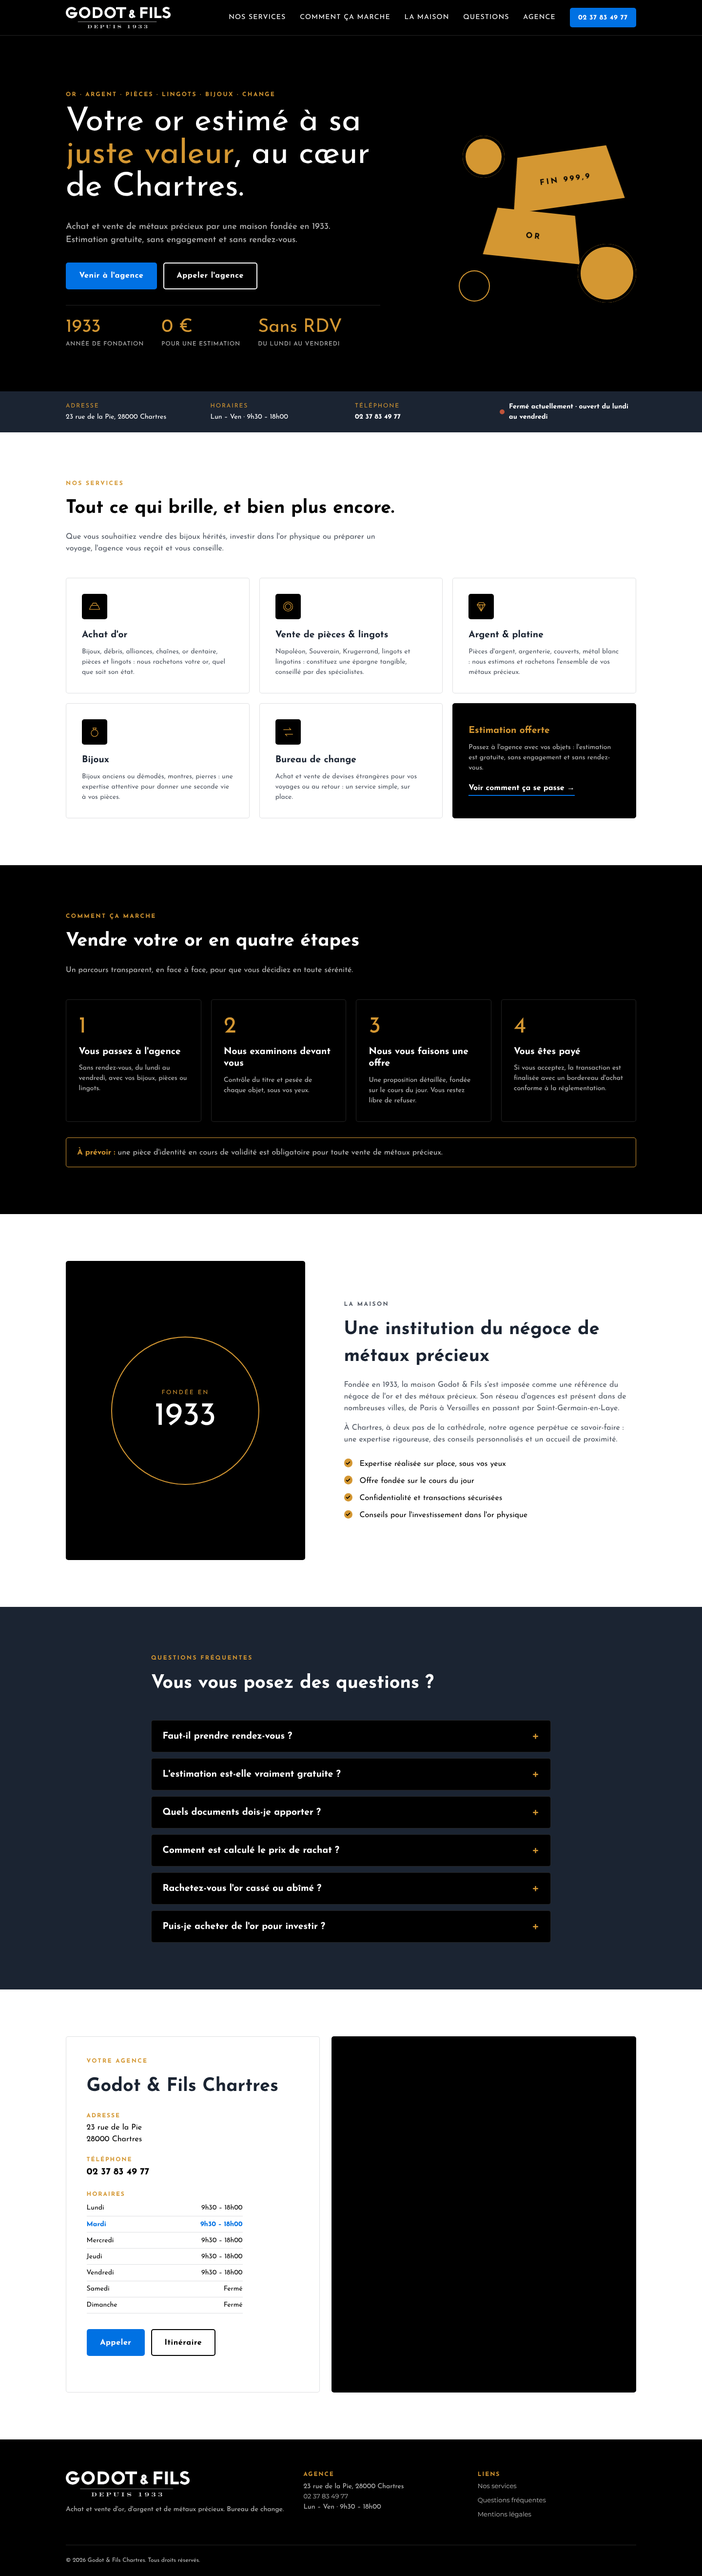
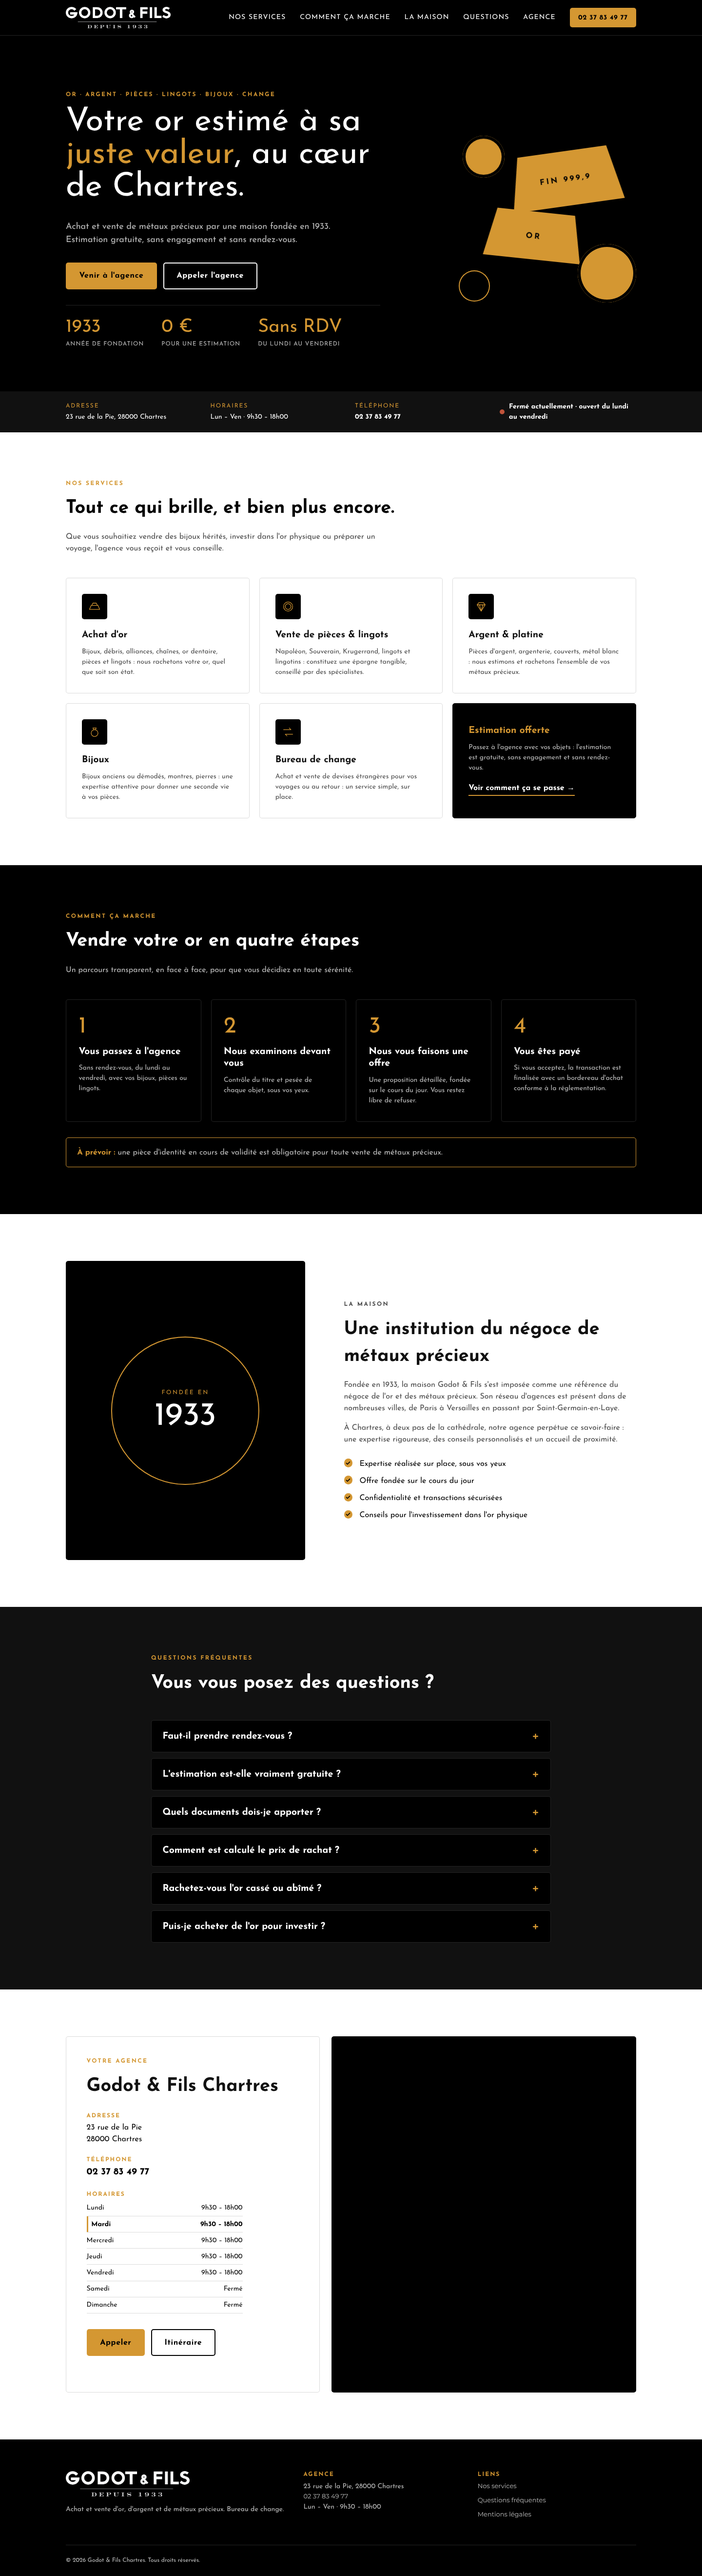
Retire tous les bleus : boutons or, bleu nuit remplacé par noir profond
Claude-Session: https://claude.ai/code/session_014VqmofWoG2EWz9QEFTFwXC

diff --git a/assets/css/style.css b/assets/css/style.css
@@ -1,22 +1,22 @@
 /* Godot & Fils Chartres — refonte 2026
    Design system : voir DESIGN.md
-   Canvas noir · surfaces blanches · or #d49732 · CTA bleu #0071e3 · Josefin Sans · rayon 5px · aplats */
+   Canvas noir · surfaces blanches · or #d49732 · CTA or · Josefin Sans · rayon 5px · aplats */
 :root {
   /* Couleurs */
   --canvas: #000000;
   --surface: #ffffff;
-  --accent: #0071e3;
-  --accent-hover: #0077ed;
+  --accent: #d49732;
+  --accent-hover: #e0a845;
   --text-1: #ffffff;
   --text-2: #000000;
   --gold: #d49732;
-  --navy: #1b2432;
+  --navy: #111111;
 
   /* Dérivés (opacités des tokens, pas de nouvelles teintes) */
   --text-1-muted: rgba(255, 255, 255, .72);
-  --text-2-muted: rgba(27, 36, 50, .78);
+  --text-2-muted: rgba(0, 0, 0, .72);
   --line-dark: rgba(255, 255, 255, .14);
-  --line-light: rgba(27, 36, 50, .14);
+  --line-light: rgba(0, 0, 0, .14);
 
   /* Forme */
   --radius: 5px;
@@ -56,7 +56,7 @@ p { margin: 0 0 1em; }
 .narrow { width: min(820px, 100% - 32px); }
 
 .skip { position: absolute; left: -9999px; }
-.skip:focus { left: 16px; top: 16px; z-index: 100; background: var(--accent); color: var(--text-1); padding: .6em 1em; border-radius: var(--radius); }
+.skip:focus { left: 16px; top: 16px; z-index: 100; background: var(--gold); color: var(--text-2); padding: .6em 1em; border-radius: var(--radius); }
 :focus-visible { outline: 2px solid var(--accent); outline-offset: 3px; }
 
 .eyebrow {
@@ -73,7 +73,7 @@ p { margin: 0 0 1em; }
   transition: background-color .2s, color .2s, border-color .2s;
 }
 .btn-sm { min-height: 40px; padding: .5em 1.1em; font-size: var(--fs-small); }
-.btn-gold, .btn-primary { background: var(--accent); color: var(--text-1); }
+.btn-gold, .btn-primary { background: var(--gold); color: var(--text-2); }
 .btn-gold:hover, .btn-primary:hover { background: var(--accent-hover); }
 .btn-ghost { color: var(--text-1); border-color: var(--text-1); }
 .btn-ghost:hover { background: var(--text-1); color: var(--text-2); }
@@ -179,7 +179,7 @@ p { margin: 0 0 1em; }
 .card-accent { background: var(--canvas); color: var(--text-1); border-color: var(--canvas); display: flex; flex-direction: column; justify-content: center; }
 .card-accent h3 { color: var(--gold); }
 .card-accent p { color: var(--text-1-muted); margin-bottom: 1.2rem; }
-.link-arrow { color: var(--text-1); font-weight: 700; text-decoration: none; border-bottom: 2px solid var(--accent); align-self: flex-start; padding-bottom: 2px; }
+.link-arrow { color: var(--text-1); font-weight: 700; text-decoration: none; border-bottom: 2px solid var(--gold); align-self: flex-start; padding-bottom: 2px; }
 .link-arrow::after { content: " →"; }
 
 /* Étapes */
@@ -241,7 +241,8 @@ p { margin: 0 0 1em; }
 .hours { border-collapse: collapse; width: 100%; max-width: 320px; font-size: var(--fs-small); }
 .hours th, .hours td { text-align: left; padding: .35rem 0; font-weight: 400; border-bottom: 1px solid var(--line-light); }
 .hours td { text-align: right; }
-.hours tr.today th, .hours tr.today td { font-weight: 700; color: var(--accent); }
+.hours tr.today th, .hours tr.today td { font-weight: 700; color: var(--text-2); }
+.hours tr.today th { box-shadow: inset 3px 0 0 var(--gold); padding-left: .6rem; }
 .map { border-radius: var(--radius); overflow: hidden; min-height: 420px; border: 1px solid var(--line-light); background: var(--canvas); }
 .map iframe { width: 100%; height: 100%; min-height: 420px; border: 0; }
 
@@ -260,9 +261,9 @@ p { margin: 0 0 1em; }
 /* Bouton d'appel flottant (mobile) */
 .call-fab {
   display: none; position: fixed; right: 16px; bottom: 16px; z-index: 60;
-  width: 56px; height: 56px; border-radius: 50%; background: var(--accent); place-items: center;
+  width: 56px; height: 56px; border-radius: 50%; background: var(--gold); place-items: center;
 }
-.call-fab svg { width: 26px; height: 26px; fill: var(--text-1); }
+.call-fab svg { width: 26px; height: 26px; fill: var(--text-2); }
 
 /* Apparition au défilement */
 @media (prefers-reduced-motion: no-preference) {

diff --git a/DESIGN.md b/DESIGN.md
@@ -12,8 +12,8 @@ alternent avec le noir pour donner du rythme et de la lisibilité aux contenus l
 (services, la maison, agence). Le ton est sobre, rassurant, patrimonial — une maison de 1933 —
 sans ostentation : pas de dégradés, pas d'effets brillants, l'or est un aplat.
 
-Métaphores : écrin (noir), métal (or), confiance institutionnelle (bleu nuit `#1b2432`),
-action claire (bleu `#0071e3`, réservé aux appels à l'action).
+Métaphores : écrin (noir), métal (or), confiance institutionnelle (noir profond `#111111`),
+action claire (boutons or pleins, texte noir).
 
 ## 2. Color Palette & Roles
 
@@ -22,16 +22,16 @@ action claire (bleu `#0071e3`, réservé aux appels à l'action).
 - **Secondary Surface** `#ffffff` — sections de contenu, cartes, carte agence
 
 ### Accent & Interactive
-- **Primary Accent** `#0071e3` — boutons principaux (Appeler, Venir à l'agence), bouton
-  d'appel flottant, soulignement des liens d'action, jour courant dans les horaires, focus
+- **Primary Accent** `#d49732` — boutons principaux (texte noir), bouton d'appel flottant,
+  soulignement des liens d'action, focus. *Aucun bleu n'est utilisé sur le site.*
 
 ### Text & Neutrals
-- **Text Tier 1** `#ffffff` — texte sur fond noir / bleu nuit
+- **Text Tier 1** `#ffffff` — texte sur fond noir / noir profond
 - **Text Tier 2** `#000000` — texte sur fond blanc
 - **Text Tier 3** `#d49732` — or : labels (eyebrows), chiffres, numéros, icônes, survols de nav
-- **Text Tier 4** `#1b2432` — bleu nuit : titres sur fond blanc, bandeau infos, section FAQ
+- **Text Tier 4** `#111111` — noir profond (remplace le noir profond `#111111`) : titres sur fond blanc, bandeau infos, section FAQ
 
-Les variantes « muted » sont des opacités de ces tokens (72 % blanc, 78 % bleu nuit),
+Les variantes « muted » sont des opacités de ces tokens (72 % blanc, 72 % noir),
 jamais de nouvelles teintes.
 
 ## 3. Typography Rules
@@ -57,11 +57,11 @@ jamais de nouvelles teintes.
 
 - **Rayon unique : `5px`** pour boutons, cartes, encadrés, carte, FAQ. Seules exceptions :
   éléments circulaires (monogramme, pièces, badge 1933, bouton d'appel flottant).
-- **Bouton principal** : fond `#0071e3`, texte blanc 700, hauteur ≥ 48px, padding 0.85em 1.6em.
+- **Bouton principal** : fond or `#d49732`, texte noir 700, hauteur ≥ 48px, padding 0.85em 1.6em.
 - **Bouton secondaire** : contour 2px blanc (sur noir) ou noir (sur blanc), inversion au survol.
-- **Carte** : fond blanc, bordure 1px bleu nuit à 14 %, padding 32px ; au survol la bordure
+- **Carte** : fond blanc, bordure 1px noir à 14 %, padding 32px ; au survol la bordure
   passe à l'or. Icône dans une pastille noire 52px, trait or.
-- **Carte accent** : fond noir, titre or, lien souligné bleu.
+- **Carte accent** : fond noir, titre or, lien souligné or.
 - **Encadré « À prévoir »** : bordure 1px or, fond transparent.
 - **FAQ** : `details` sur fond noir, bordure 1px blanc à 14 %, bordure or quand ouvert, « + » or.
 
@@ -71,8 +71,8 @@ jamais de nouvelles teintes.
 - Grilles : 3 colonnes (services), 4 (étapes, bandeau infos), 2 asymétriques (la maison,
   agence : 0.9fr / 1.1fr).
 - Espacement **aéré** : 64–96px de padding vertical par section, 20px entre cartes.
-- Alternance des fonds : noir (hero) → bleu nuit (bandeau) → blanc (services) → noir (étapes)
-  → blanc (maison) → bleu nuit (FAQ) → blanc (agence) → noir (pied).
+- Alternance des fonds : noir (hero) → noir profond (bandeau) → blanc (services) → noir (étapes)
+  → blanc (maison) → noir profond (FAQ) → blanc (agence) → noir (pied).
 
 ## 6. Depth & Elevation
 
@@ -87,10 +87,10 @@ noir / blanc et des bordures.
 
 ## 7. Do's and Don'ts
 
-- **Do** réserver le bleu `#0071e3` aux actions (boutons, liens d'action, focus).
-- **Do** utiliser l'or pour signaler la valeur : labels, chiffres, icônes — jamais en fond de bouton.
+- **Do** réserver les boutons or pleins (texte noir) aux actions principales.
+- **Do** utiliser l'or pour signaler la valeur : labels, chiffres, icônes — et en fond des seuls boutons d'action.
 - **Do** écrire labels et navigation en capitales interlettrées.
-- **Don't** utiliser de dégradés, d'ombres ou de rayons autres que 5px.
+- **Don't** utiliser de bleu, de dégradés, d'ombres ou de rayons autres que 5px.
 - **Don't** introduire de nouvelles teintes : les nuances sont des opacités des tokens.
 
 ## 8. Responsive Behavior
@@ -98,25 +98,25 @@ noir / blanc et des bordures.
 - **≥ 1025px** : grilles complètes, visuel lingots/pièces dans le hero.
 - **≤ 1024px** : services et étapes en 2 colonnes, bandeau infos 2×2, visuel du hero masqué.
 - **≤ 860px** : menu burger (panneau noir plein largeur), sections en 1 colonne, bouton
-  d'appel flottant bleu 56px en bas à droite.
+  d'appel flottant or 56px en bas à droite.
 - **≤ 560px** : tout en 1 colonne, boutons du hero pleine largeur.
 - Cibles tactiles ≥ 48px (boutons, liens de menu mobile, bouton d'appel).
 
 ## 9. Agent Prompt Guide
 
 ### Reference Tokens
-- **Primary CTA** `#0071e3` · **Canvas** `#000000` · **Surface** `#ffffff`
-- **Text** `#ffffff` / `#000000` · **Gold** `#d49732` · **Navy** `#1b2432`
+- **Primary CTA** `#d49732` (texte `#000000`) · **Canvas** `#000000` · **Surface** `#ffffff`
+- **Text** `#ffffff` / `#000000` · **Gold** `#d49732` · **Noir profond** `#111111`
 - **Font** Josefin Sans (400/700), Montserrat 13px pour liens utilitaires · **Radius** 5px
 
 ### Exemples de prompts
 1. « Crée une section "Cours de l'or" sur fond noir `#000000` : label en capitales or `#d49732`
    12px interlettré 0.2em, titre Josefin Sans 38px 700 blanc, trois cartes blanches à bordure
-   1px `rgba(27,36,50,.14)` et rayon 5px affichant un prix en Josefin Sans 47px 400 or. Pas
+   1px `rgba(0,0,0,.14)` et rayon 5px affichant un prix en Josefin Sans 47px 400 or. Pas
    d'ombre ni de dégradé. »
 2. « Génère un formulaire de prise de contact sur surface blanche : libellés en capitales or
-   12px, champs bordés 1px bleu nuit `#1b2432` à 14 %, rayon 5px, hauteur 48px, focus contour
-   2px `#0071e3` ; bouton d'envoi plein `#0071e3` texte blanc 700. »
-3. « Ajoute un bandeau d'avis clients sur fond bleu nuit `#1b2432` : citations en Josefin Sans
+   12px, champs bordés 1px noir profond `#111111` à 14 %, rayon 5px, hauteur 48px, focus contour
+   2px or `#d49732` ; bouton d'envoi plein or `#d49732` texte noir 700. »
+3. « Ajoute un bandeau d'avis clients sur fond noir profond `#111111` : citations en Josefin Sans
    19.2px 400 blanc, nom du client en capitales or 12px, séparateurs 1px blanc à 14 %, grille
    3 colonnes repliée en 1 colonne sous 860px. »

diff --git a/README.md b/README.md
@@ -3,7 +3,7 @@
 Site vitrine statique (HTML/CSS/JS, sans dépendance) pour l'agence Godot & Fils de Chartres,
 en remplacement de https://www.godotetfils-chartres.fr/.
 
-Design system : voir [`DESIGN.md`](DESIGN.md) (canvas noir, surfaces blanches, or `#d49732`, CTA bleu `#0071e3`, Josefin Sans, rayon 5px, aplats).
+Design system : voir [`DESIGN.md`](DESIGN.md) (canvas noir, surfaces blanches, or `#d49732`, CTA or, Josefin Sans, rayon 5px, aplats).
 
 ## Contenu
 - `index.html` — page unique : accueil, services, étapes d'estimation, la maison, FAQ, agence (horaires, carte)
